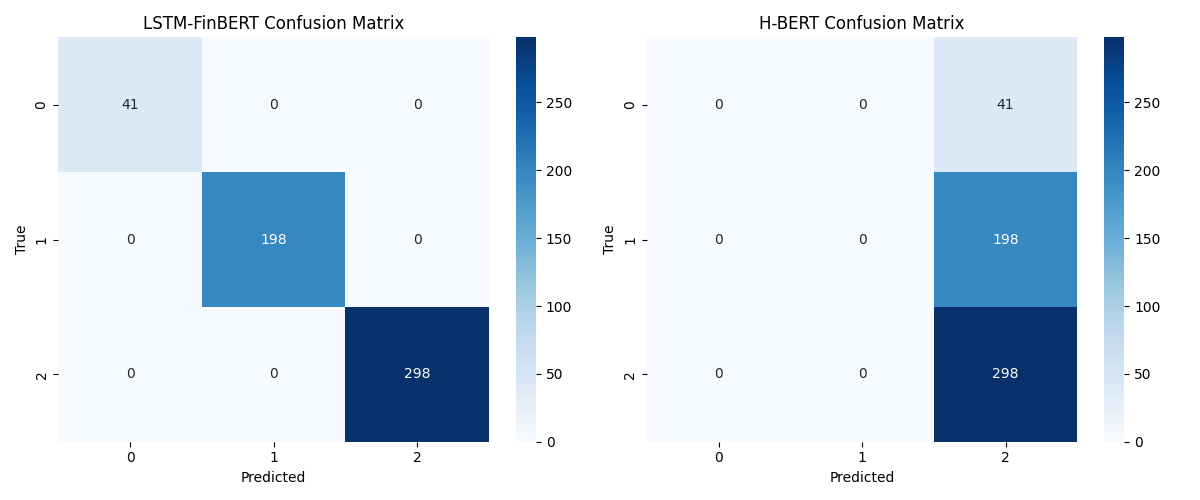
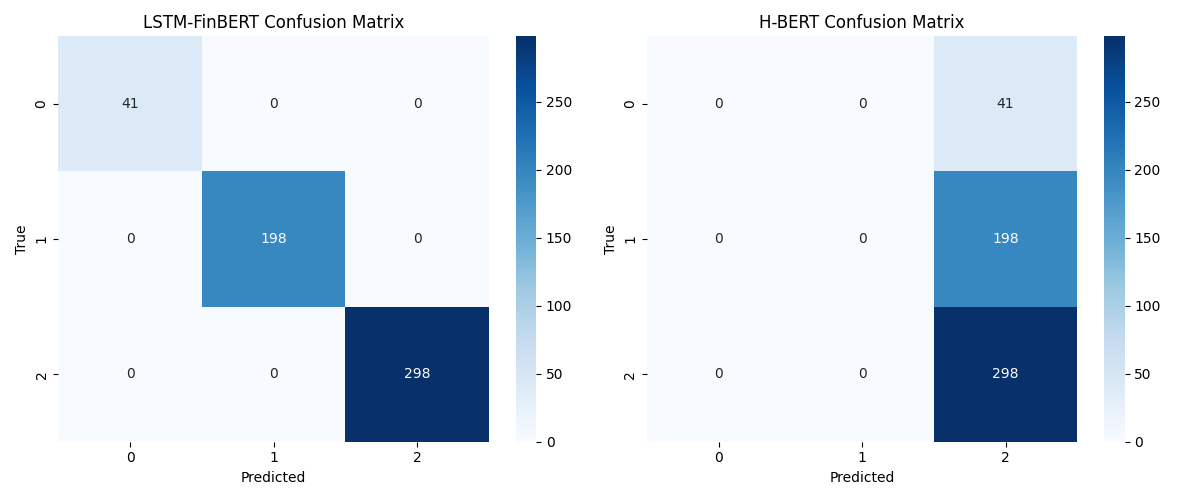
fixed confusion matrix

diff --git a/evaluation.py b/evaluation.py
@@ -46,32 +46,18 @@ def evaluate_sentiment(true_sentiment, lstm_pred, hbert_pred, lstm_only_pred):
     print("\nConfusion Matrix:")
     print(hbert_cm)
     
-    print("\nLSTM-only Sentiment Metrics:")
-    print(f"Accuracy: {lstm_only_accuracy:.4f}")
-    print(f"Precision: {lstm_only_precision:.4f}")
-    print(f"Recall: {lstm_only_recall:.4f}")
-    print(f"F1 Score: {lstm_only_f1:.4f}")
-    print("\nConfusion Matrix:")
-    print(lstm_only_cm)
-    
     # Plot confusion matrices
-    plt.figure(figsize=(18, 5))
+    plt.figure(figsize=(12, 5))
     
-    plt.subplot(1, 3, 1)
+    plt.subplot(1, 2, 1)
     sns.heatmap(lstm_cm, annot=True, fmt='d', cmap='Blues')
     plt.title('LSTM-FinBERT Confusion Matrix')
     plt.xlabel('Predicted')
     plt.ylabel('True')
     
-    plt.subplot(1, 3, 2)
+    plt.subplot(1, 2, 2)
     sns.heatmap(hbert_cm, annot=True, fmt='d', cmap='Blues')
     plt.title('H-BERT Confusion Matrix')
-    plt.xlabel('Predicted')
-    plt.ylabel('True')
-    
-    plt.subplot(1, 3, 3)
-    sns.heatmap(lstm_only_cm, annot=True, fmt='d', cmap='Blues')
-    plt.title('LSTM-only Confusion Matrix')
     plt.xlabel('Predicted')
     plt.ylabel('True')
     
